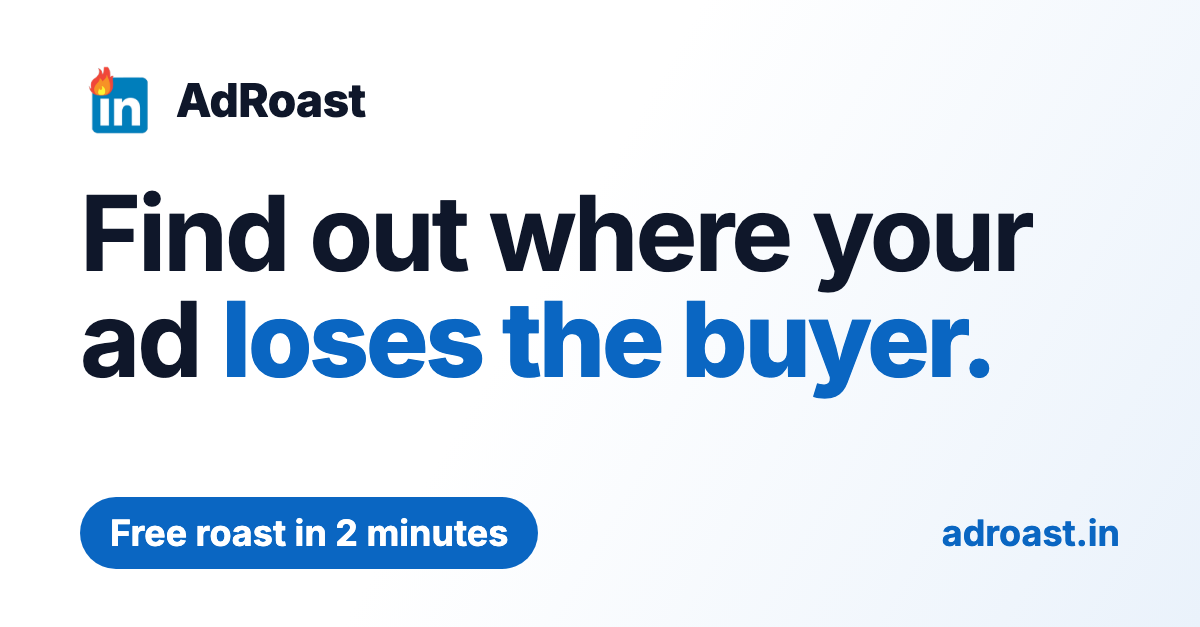
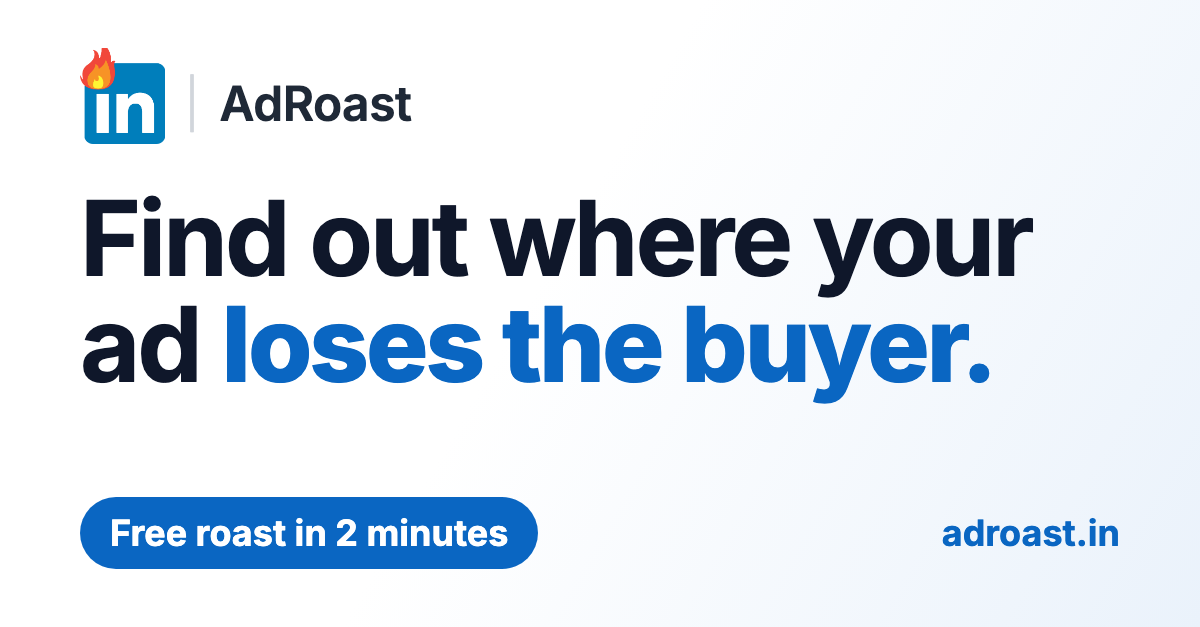
Board: 'Fix first' badge, services copy without 'software', og card with the site lockup
- Worst-ad badge and spectrum label read 'Fix first' (was 'Start here')
- /services: 'B2B teams' instead of 'B2B software'
- og-card.png: official logo + divider + semibold AdRoast, text centered on the blue square

diff --git a/index.html b/index.html
@@ -2007,7 +2007,7 @@
               </div>
               <div style={{ minWidth: 0, flex: 1 }}>
                 <div className="flex items-center gap-1.5 flex-wrap">
-                  {aFree && <span className="inline-flex items-center gap-1 font-bold uppercase" style={{ fontSize: 9, letterSpacing: '0.06em', color: '#fff', background: '#dc2626', padding: '2px 7px', borderRadius: 5, whiteSpace: 'nowrap' }}><Icon name="flame" className="w-2.5 h-2.5" />Start here</span>}
+                  {aFree && <span className="inline-flex items-center gap-1 font-bold uppercase" style={{ fontSize: 9, letterSpacing: '0.06em', color: '#fff', background: '#dc2626', padding: '2px 7px', borderRadius: 5, whiteSpace: 'nowrap' }}><Icon name="flame" className="w-2.5 h-2.5" />Fix first</span>}
                   {allPlat && active.plat && <span className="inline-flex items-center gap-1 font-semibold text-gray-600" style={{ fontSize: 11, whiteSpace: 'nowrap' }}><PlatLogo plat={active.plat} size={13} />{active.plat}</span>}
                   <span className="inline-flex items-center rounded-full font-bold" style={{ fontSize: 10.5, color: SEV(active.score).c, background: SEV(active.score).bg, border: '1px solid ' + SEV(active.score).bd, padding: '2px 8px', whiteSpace: 'nowrap' }}>{SEV(active.score).label}</span>
                   <span className="font-bold text-gray-500" style={{ fontSize: 12, whiteSpace: 'nowrap' }}>Fit {active.score}/10</span>
@@ -2038,7 +2038,7 @@
                     {/* Redundant with the big START HERE badge in the preview card above, and it
                         clips at the mobile scroller's right edge when the worst dot sits mid-track,
                         so it shows on desktop (track fits, no scroll) but is hidden on mobile. */}
-                    {isWorst && <span className="absolute left-1/2 whitespace-nowrap hidden sm:inline-flex items-center gap-0.5" style={{ transform: 'translateX(-50%)', top: 0, fontSize: 9, fontWeight: 800, color: '#dc2626', textTransform: 'uppercase', letterSpacing: '0.04em' }}><Icon name="flame" className="w-2.5 h-2.5" />Start here</span>}
+                    {isWorst && <span className="absolute left-1/2 whitespace-nowrap hidden sm:inline-flex items-center gap-0.5" style={{ transform: 'translateX(-50%)', top: 0, fontSize: 9, fontWeight: 800, color: '#dc2626', textTransform: 'uppercase', letterSpacing: '0.04em' }}><Icon name="flame" className="w-2.5 h-2.5" />Fix first</span>}
                     <span className="absolute rounded-full spec-dot" style={{ left: '50%', top: 35, width: d, height: d, transform: 'translate(-50%,-50%)', background: col, border: '2.5px solid #fff', boxShadow: on ? '0 6px 16px ' + col + '66' : '0 1px 5px rgba(11,15,26,.28)', transition: 'width .16s ease, height .16s ease', animation: 'dotIn .45s cubic-bezier(.22,1,.36,1) both', animationDelay: (Math.min(i, 24) * 0.045) + 's' }} />
                     <span className="absolute left-1/2 whitespace-nowrap" style={{ transform: 'translateX(-50%)', top: 48, fontSize: 10, fontWeight: 800, color: col, opacity: on ? 1 : 0, transition: 'opacity .16s ease' }}>{a.score}/10</span>
                   </button>
@@ -2491,7 +2491,7 @@
                     <div className="px-4 pt-4 pb-2.5">
                       <div className="flex items-center gap-2">
                         <span className="inline-flex items-center justify-center flex-none" style={{ width: 24, height: 24, borderRadius: 7, background: '#fff', border: '1px solid #e5e7eb' }} title={a.plat}><PlatLogo plat={a.plat} size={14} /></span>
-                        {free && <span className="inline-flex items-center justify-center flex-none" style={{ width: 24, height: 24, borderRadius: 7, background: '#dc2626', color: '#fff' }} title="Start here: your worst-scoring ad, roast this one first"><Icon name="flame" className="w-3 h-3" /></span>}
+                        {free && <span className="inline-flex items-center justify-center flex-none" style={{ width: 24, height: 24, borderRadius: 7, background: '#dc2626', color: '#fff' }} title="Your worst-scoring ad. Roast this one first."><Icon name="flame" className="w-3 h-3" /></span>}
                         {hasScore && <span className="inline-flex items-center gap-1.5 font-bold flex-none" style={{ height: 24, fontSize: 10.5, padding: '0 10px', borderRadius: 7, color: sev.c, background: sev.bg, border: '1px solid ' + sev.bd, whiteSpace: 'nowrap' }}><span style={{ width: 6, height: 6, borderRadius: 99, background: sev.c }} />{sev.label}</span>}
                         {hasScore && <span className="ml-auto flex-none inline-flex items-center gap-1.5" title="Buyer fit: how well this ad matches the buyer you want to reach, scored 0 to 10. Low means you're paying to reach the wrong people." style={{ height: 24, padding: '0 4px 0 9px', borderRadius: 7, background: scoreCol(a.score) + '14', border: '1px solid ' + scoreCol(a.score) + '3a', whiteSpace: 'nowrap' }}>
                           <span style={{ fontSize: 9.5, fontWeight: 700, textTransform: 'uppercase', letterSpacing: '0.05em', color: scoreCol(a.score) }}>Buyer fit</span>
@@ -5036,9 +5036,9 @@
           {/* SERVICE PRICING - the paid offers live on the main page; the roast-token
               upgrade ($24 / $482) only appears after a roast, in the unlock modal. */}
           <section id="work-with-us" className="max-w-5xl mx-auto px-4 pb-10 sm:pb-20 w-full scroll-mt-20">
-            <div className="inline-flex items-center gap-1.5 px-3 py-1 rounded-full text-xs font-medium uppercase tracking-wide mb-5" style={{ backgroundColor: '#eef2ff', color: '#0a66c2' }}>Human-led services for B2B software</div>
+            <div className="inline-flex items-center gap-1.5 px-3 py-1 rounded-full text-xs font-medium uppercase tracking-wide mb-5" style={{ backgroundColor: '#eef2ff', color: '#0a66c2' }}>Human-led services for B2B teams</div>
             <h2 className="text-gray-900 mb-4" style={{ fontSize: 'clamp(34px, 8vw, 44px)', fontWeight: 300, letterSpacing: '-0.3px', lineHeight: 1.2 }}>The roast found the problem.<br className="hidden sm:inline" />Want us to fix the full campaign?</h2>
-            <p className="text-gray-400 mb-8 sm:mb-12 max-w-xl" style={{ fontSize: '17px', lineHeight: 1.7 }}>The free AdRoast works with ads from any industry. Our human-led services are built for B2B software teams running active paid campaigns. <strong className="font-semibold text-gray-600">We align your campaign around the buyer, helping generate 3× more demos from the ad spend you already have.</strong></p>
+            <p className="text-gray-400 mb-8 sm:mb-12 max-w-xl" style={{ fontSize: '17px', lineHeight: 1.7 }}>The free AdRoast works with ads from any industry. Our human-led services are built for B2B teams running active paid campaigns. <strong className="font-semibold text-gray-600">We align your campaign around the buyer, helping generate 3× more demos from the ad spend you already have.</strong></p>
 
             {ServiceOffers()}
 
